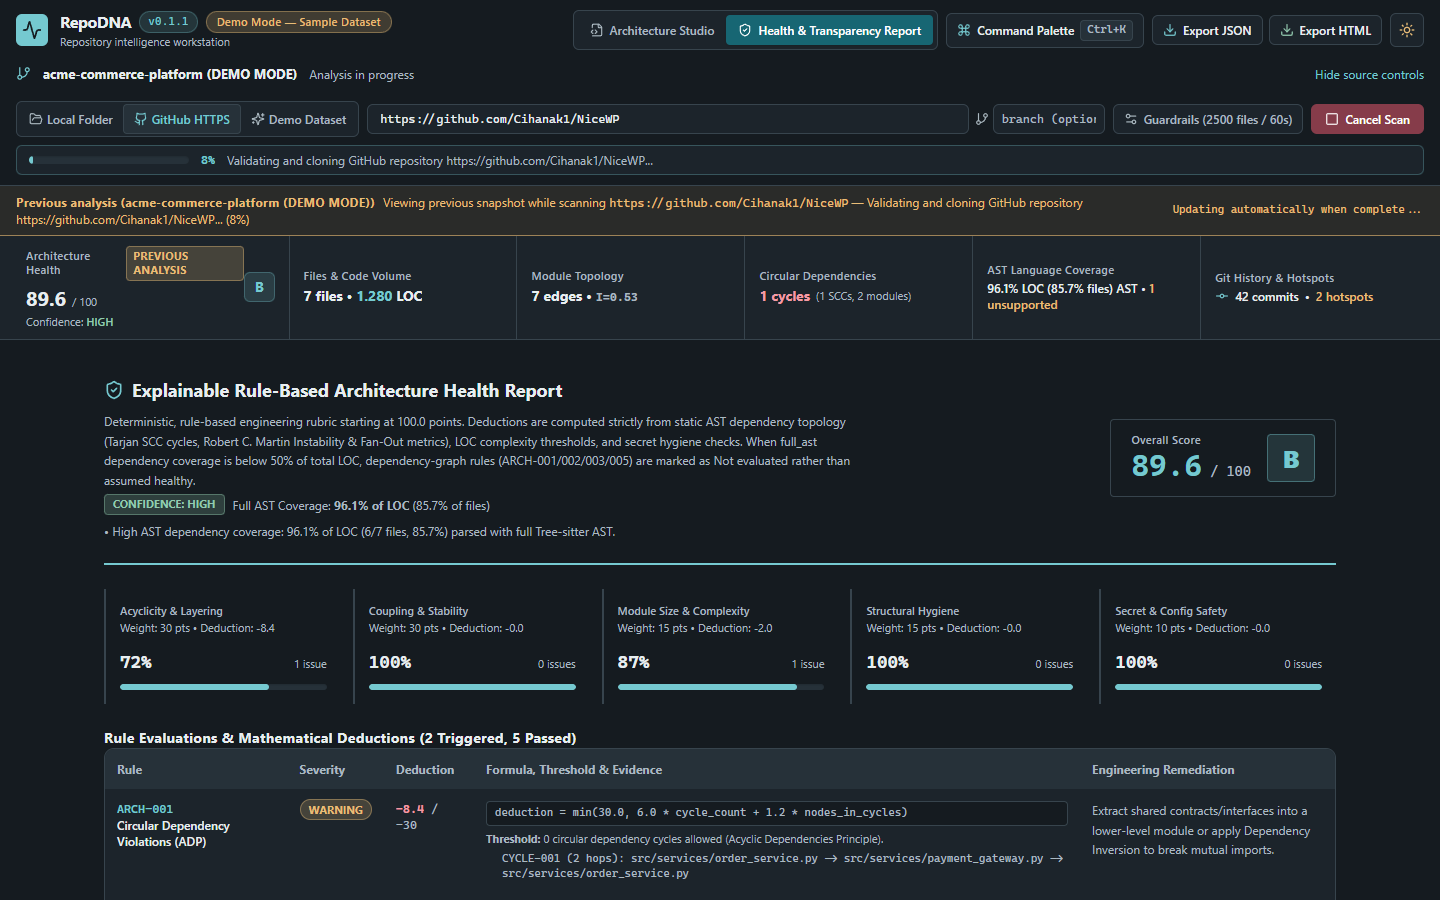
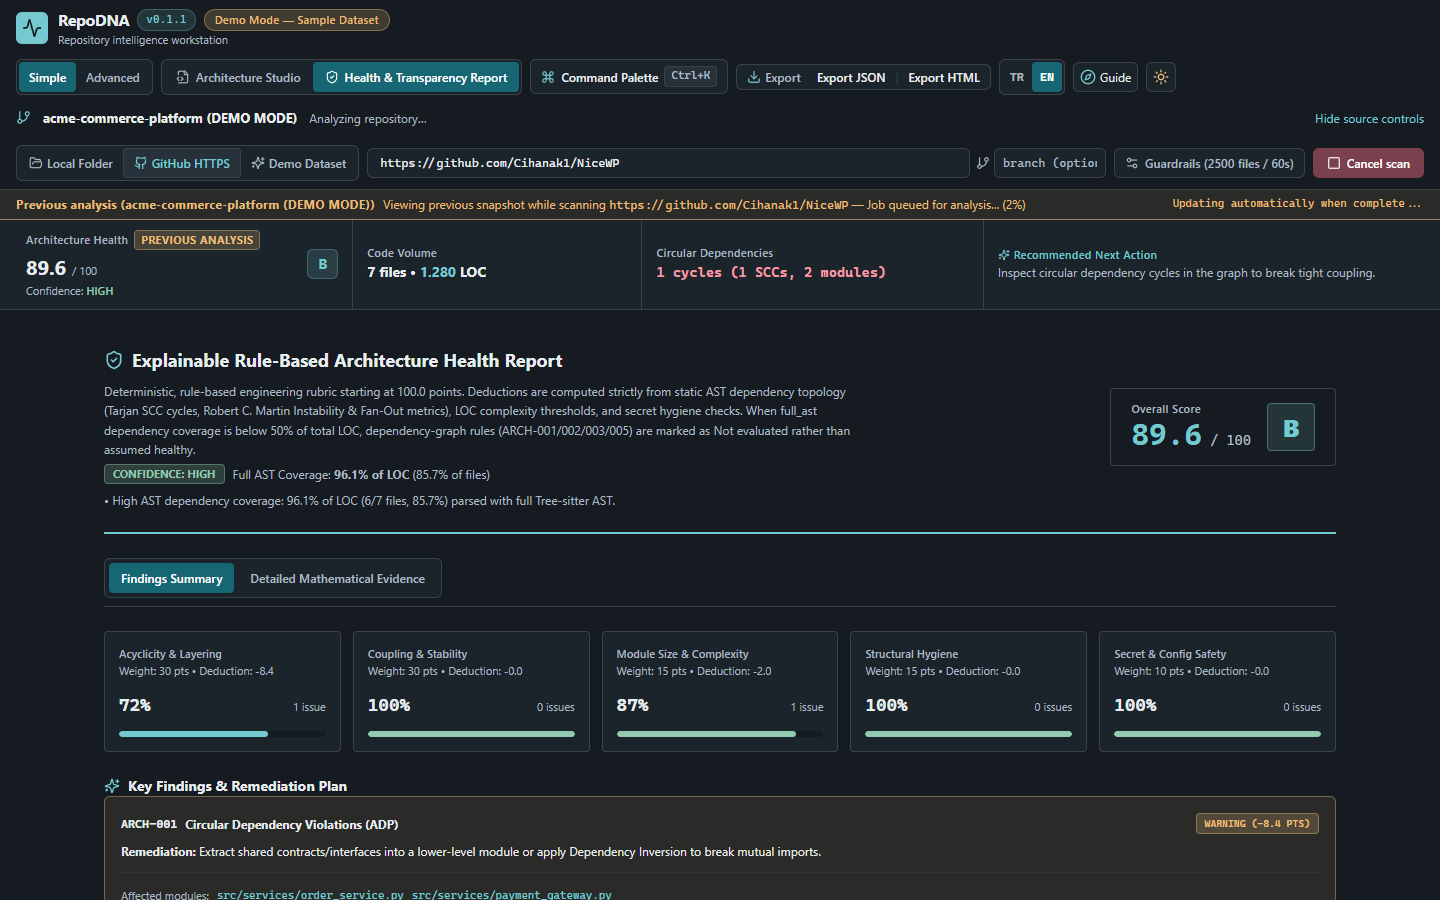
test(e2e): add end-to-end verification for multilingual, tour, and mode switching

diff --git a/frontend/e2e/multilingual-simple.spec.ts b/frontend/e2e/multilingual-simple.spec.ts
@@ -1,0 +1,186 @@
+import { expect, test } from '@playwright/test';
+import AxeBuilder from '@axe-core/playwright';
+
+const artifacts = '../docs/design/after';
+
+test.describe('Pass 2: Cognitive Simplicity, Guided Experience & Multilingual Workstation', () => {
+  test('dynamic language switching between Turkish and English with accessibility', async ({ page }) => {
+    await page.goto('/');
+
+    // Explicitly click English button
+    await page.getByTestId('lang-en-btn').click();
+    await expect(page.locator('h1')).toHaveText('RepoDNA');
+    await expect(page.getByText("Understand how your project's files and modules connect.")).toBeVisible();
+    expect(await page.evaluate(() => document.documentElement.lang)).toBe('en');
+
+    // Switch to Turkish via TR button
+    await page.getByTestId('lang-tr-btn').click();
+    expect(await page.evaluate(() => document.documentElement.lang)).toBe('tr');
+    await expect(page.getByText('Projendeki dosyaların ve modüllerin nasıl birbirine bağlandığını keşfet.')).toBeVisible();
+
+    // Launch Demo in Turkish
+    await page.getByTestId('launchpad-demo-btn').click();
+    await expect(page.getByTestId('summary-health-score')).toBeVisible();
+
+    // Verify Turkish Tab labels
+    await expect(page.getByRole('button', { name: 'Mimari İnceleme' })).toBeVisible();
+    await expect(page.getByRole('button', { name: 'Sağlık ve Şeffaflık Raporu' })).toBeVisible();
+
+    // Verify Turkish Summary Action
+    await expect(page.getByText(/Önerilen (Sonraki|Sıradaki) (Aksiyon|Eylem)/i)).toBeVisible();
+
+    // Take screenshot of Turkish Architecture Studio in Simple mode
+    await page.screenshot({ path: `${artifacts}/pass2-turkish-studio-simple.png` });
+
+    // Switch back to English
+    await page.getByTestId('lang-en-btn').click();
+    expect(await page.evaluate(() => document.documentElement.lang)).toBe('en');
+    await expect(page.getByRole('button', { name: 'Architecture Studio' })).toBeVisible();
+    await expect(page.getByRole('button', { name: 'Health & Transparency Report' })).toBeVisible();
+    await expect(page.getByText('Recommended Next Action')).toBeVisible();
+
+    // WCAG Accessibility check in English and Turkish
+    const axeResults = await new AxeBuilder({ page })
+      .withTags(['wcag2a', 'wcag2aa', 'wcag21aa', 'wcag22aa'])
+      .analyze();
+    expect(axeResults.violations).toEqual([]);
+  });
+
+  test('Simple Mode vs Advanced Mode toggling and persistence', async ({ page }) => {
+    await page.goto('/');
+    await page.getByTestId('launchpad-demo-btn').click();
+    await expect(page.getByTestId('summary-health-score')).toBeVisible();
+
+    const simpleBtn = page.getByTestId('mode-simple-btn');
+    const advancedBtn = page.getByTestId('mode-advanced-btn');
+
+    // Select Simple mode
+    await simpleBtn.click();
+    await expect(simpleBtn).toHaveAttribute('aria-pressed', 'true');
+    await expect(advancedBtn).toHaveAttribute('aria-pressed', 'false');
+
+    // In Simple Mode: 4 primary overview cards
+    await expect(page.getByTestId('summary-health-score')).toBeVisible();
+    await expect(page.getByTestId('summary-total-files')).toBeVisible();
+    await expect(page.getByTestId('summary-cycle-count')).toBeVisible();
+    await expect(page.getByText(/Recommended Next Action|Önerilen Sıradaki Eylem/i)).toBeVisible();
+
+    // 6-metric technical items (astCoverage, hotspots) are hidden in Simple mode
+    await expect(page.getByTestId('summary-ast-coverage')).toBeHidden();
+
+    // In Inspector: Select a file from explorer
+    await page.getByTestId('explorer-file-src/api/router.py').click();
+    await expect(page.getByTestId('inspector-panel')).toBeVisible();
+    await expect(page.getByTestId('inspector-technical-details')).toBeVisible();
+    await expect(page.getByTestId('inspector-technical-details')).not.toHaveAttribute('open', '');
+
+    // Switch to Advanced Mode
+    await advancedBtn.click();
+    await expect(advancedBtn).toHaveAttribute('aria-pressed', 'true');
+    await expect(simpleBtn).toHaveAttribute('aria-pressed', 'false');
+
+    // In Advanced Mode: Full 6-metric strip is visible
+    await expect(page.getByTestId('summary-ast-coverage')).toBeVisible();
+    await expect(page.getByTestId('summary-git-hotspots')).toBeVisible();
+
+    // In Inspector: Advanced technical metrics disclosure is open
+    await expect(page.getByTestId('inspector-technical-details')).toHaveAttribute('open', '');
+
+    // Take screenshot of Advanced mode
+    await page.screenshot({ path: `${artifacts}/pass2-advanced-mode.png` });
+
+    // Reload page to verify localStorage persistence
+    await page.reload();
+    await expect(page.getByTestId('mode-advanced-btn')).toHaveAttribute('aria-pressed', 'true');
+    await page.getByTestId('launchpad-demo-btn').click();
+    await expect(page.getByTestId('summary-ast-coverage')).toBeVisible();
+  });
+
+  test('Guided Onboarding Tour: 4 steps, keyboard navigation, and demo action', async ({ page }) => {
+    await page.goto('/');
+
+    // Launch tour via header button
+    await page.getByTestId('open-tour-btn').click();
+    const modal = page.getByTestId('onboarding-tour-modal');
+    await expect(modal).toBeVisible();
+
+    // Step 1: Repository Selection
+    await expect(page.getByTestId('onboarding-step-indicator')).toContainText(/1 (of|\/) 4/i);
+
+    // Next step via button
+    await page.getByTestId('onboarding-next-btn').click();
+    await expect(page.getByTestId('onboarding-step-indicator')).toContainText(/2 (of|\/) 4/i);
+
+    // Step navigation via Arrow keys
+    await page.keyboard.press('ArrowRight');
+    await expect(page.getByTestId('onboarding-step-indicator')).toContainText(/3 (of|\/) 4/i);
+
+    await page.keyboard.press('ArrowLeft');
+    await expect(page.getByTestId('onboarding-step-indicator')).toContainText(/2 (of|\/) 4/i);
+
+    await page.keyboard.press('ArrowRight');
+    await page.keyboard.press('ArrowRight');
+    await expect(page.getByTestId('onboarding-step-indicator')).toContainText(/4 (of|\/) 4/i);
+
+    // Dismiss with Escape key
+    await page.keyboard.press('Escape');
+    await expect(modal).toBeHidden();
+
+    // Reopen and launch Demo directly from tour
+    await page.getByTestId('open-tour-btn').click();
+    await expect(modal).toBeVisible();
+    await page.screenshot({ path: `${artifacts}/pass2-onboarding-modal.png` });
+
+    await page.getByTestId('onboarding-demo-btn').click();
+    await expect(modal).toBeHidden();
+    await expect(page.getByTestId('summary-health-score')).toBeVisible();
+  });
+
+  test('Contextual Terminology Tooltips and Accessible Popovers', async ({ page }) => {
+    await page.goto('/');
+    await page.getByTestId('launchpad-demo-btn').click();
+    await expect(page.getByTestId('summary-health-score')).toBeVisible();
+
+    // Select a file to inspect
+    await page.getByTestId('explorer-file-src/api/router.py').click();
+    await expect(page.getByTestId('inspector-panel')).toBeVisible();
+
+    // Hover or focus the Fan-In tooltip trigger
+    const fanInTrigger = page.locator('.cursor-help').first();
+    await fanInTrigger.focus();
+
+    const popover = page.locator('.info-tooltip-popover');
+    await expect(popover).toBeVisible();
+
+    // Dismiss tooltip on Escape
+    await page.keyboard.press('Escape');
+    await expect(popover).toBeHidden();
+  });
+
+  test('Health Report 2-tier view with honest low-coverage semantics', async ({ page }) => {
+    await page.goto('/');
+    await page.getByTestId('launchpad-demo-btn').click();
+    await expect(page.getByTestId('summary-health-score')).toBeVisible();
+
+    // Switch to Health Report tab
+    await page.getByRole('button', { name: /Health & Transparency|Sağlık ve Şeffaflık/i }).click();
+    await expect(page.getByTestId('health-report-view')).toBeVisible();
+
+    // Verify 2-tier navigation (Summary vs Detailed Evidence)
+    const summarySubTab = page.getByTestId('report-tier-summary-btn');
+    const evidenceSubTab = page.getByTestId('report-tier-evidence-btn');
+
+    await expect(summarySubTab).toBeVisible();
+    await expect(evidenceSubTab).toBeVisible();
+
+    // Switch to Detailed Evidence sub-tab
+    await evidenceSubTab.click();
+    await expect(evidenceSubTab).toHaveAttribute('aria-selected', 'true');
+
+    // Verify Rules and evidence sections
+    await expect(page.getByTestId('rule-card-ARCH-001')).toBeVisible();
+
+    // Take screenshot of report
+    await page.screenshot({ path: `${artifacts}/pass2-health-report.png` });
+  });
+});

diff --git a/frontend/src/__tests__/i18n-and-workstation.test.tsx b/frontend/src/__tests__/i18n-and-workstation.test.tsx
@@ -1,0 +1,91 @@
+import { describe, expect, it } from 'vitest';
+import en from '../locales/en.json';
+import tr from '../locales/tr.json';
+import i18n from '../i18n';
+import { readPreference, savePreference } from '../utils/preferences';
+import { normalizeSearchText } from '../utils/graphLayout';
+
+function getLeafKeys(obj: Record<string, unknown>, prefix = ''): string[] {
+  let keys: string[] = [];
+  for (const [key, value] of Object.entries(obj)) {
+    const fullPath = prefix ? `${prefix}.${key}` : key;
+    if (value && typeof value === 'object' && !Array.isArray(value)) {
+      keys = keys.concat(getLeafKeys(value as Record<string, unknown>, fullPath));
+    } else {
+      keys.push(fullPath);
+    }
+  }
+  return keys.sort();
+}
+
+describe('i18n and Localization Integrity', () => {
+  it('guarantees exact parity between English and Turkish translation keys', () => {
+    const enKeys = getLeafKeys(en as Record<string, unknown>);
+    const trKeys = getLeafKeys(tr as Record<string, unknown>);
+
+    const missingInTr = enKeys.filter((k) => !trKeys.includes(k));
+    const missingInEn = trKeys.filter((k) => !enKeys.includes(k));
+
+    expect(missingInTr).toEqual([]);
+    expect(missingInEn).toEqual([]);
+    expect(enKeys.length).toBe(trKeys.length);
+    expect(enKeys.length).toBeGreaterThan(60);
+  });
+
+  it('switches languages dynamically without reload', async () => {
+    await i18n.changeLanguage('tr');
+    expect(i18n.language).toBe('tr');
+    expect(i18n.t('launchpad.headline')).toBe(
+      'Projendeki dosyaların ve modüllerin nasıl birbirine bağlandığını keşfet.'
+    );
+
+    await i18n.changeLanguage('en');
+    expect(i18n.language).toBe('en');
+    expect(i18n.t('launchpad.headline')).toBe(
+      "Understand how your project's files and modules connect."
+    );
+  });
+
+  it('properly handles Turkish case folding (İ/ı) for search comparison', () => {
+    const samplePaths = [
+      'src/İletişim/servis.ts',
+      'src/islem/Hesapla.ts',
+      'src/Infrastructure/Window.cs',
+    ];
+
+    const searchTurkish = (query: string) => {
+      const q = normalizeSearchText(query);
+      return samplePaths.filter((p) => normalizeSearchText(p).includes(q));
+    };
+
+    // 'i' matches 'İletişim' and 'İLETİŞİM'
+    expect(searchTurkish('iletişim')).toContain('src/İletişim/servis.ts');
+    expect(searchTurkish('İLETİŞİM')).toContain('src/İletişim/servis.ts');
+    expect(searchTurkish('iletisim')).toContain('src/İletişim/servis.ts');
+
+    // 'islem' matches 'Hesapla' if containing islem, and 'infrastructure'
+    expect(searchTurkish('islem')).toContain('src/islem/Hesapla.ts');
+    expect(searchTurkish('infrastructure')).toContain('src/Infrastructure/Window.cs');
+    expect(searchTurkish('Infrastructure')).toContain('src/Infrastructure/Window.cs');
+    expect(searchTurkish('ınfrastructure')).toContain('src/Infrastructure/Window.cs');
+  });
+
+  it('persists and validates workstation mode preferences correctly', () => {
+    savePreference('mode', 'advanced');
+    const mode = readPreference<'simple' | 'advanced'>(
+      'mode',
+      'simple',
+      (v): v is 'simple' | 'advanced' => v === 'simple' || v === 'advanced'
+    );
+    expect(mode).toBe('advanced');
+
+    // Invalid fallback
+    savePreference('mode', 'ultra-pro');
+    const fallbackMode = readPreference<'simple' | 'advanced'>(
+      'mode',
+      'simple',
+      (v): v is 'simple' | 'advanced' => v === 'simple' || v === 'advanced'
+    );
+    expect(fallbackMode).toBe('simple');
+  });
+});

diff --git a/frontend/src/__tests__/App.test.tsx b/frontend/src/__tests__/App.test.tsx
@@ -1,5 +1,6 @@
 import { describe, expect, it, vi } from 'vitest';
 import { fireEvent, render, screen, waitFor } from '@testing-library/react';
+import '../i18n';
 import { App } from '../App';
 import { fetchJobResultWithRetry } from '../api/client';
 import { buildFlowElements, filterFiles } from '../utils/graphLayout';
